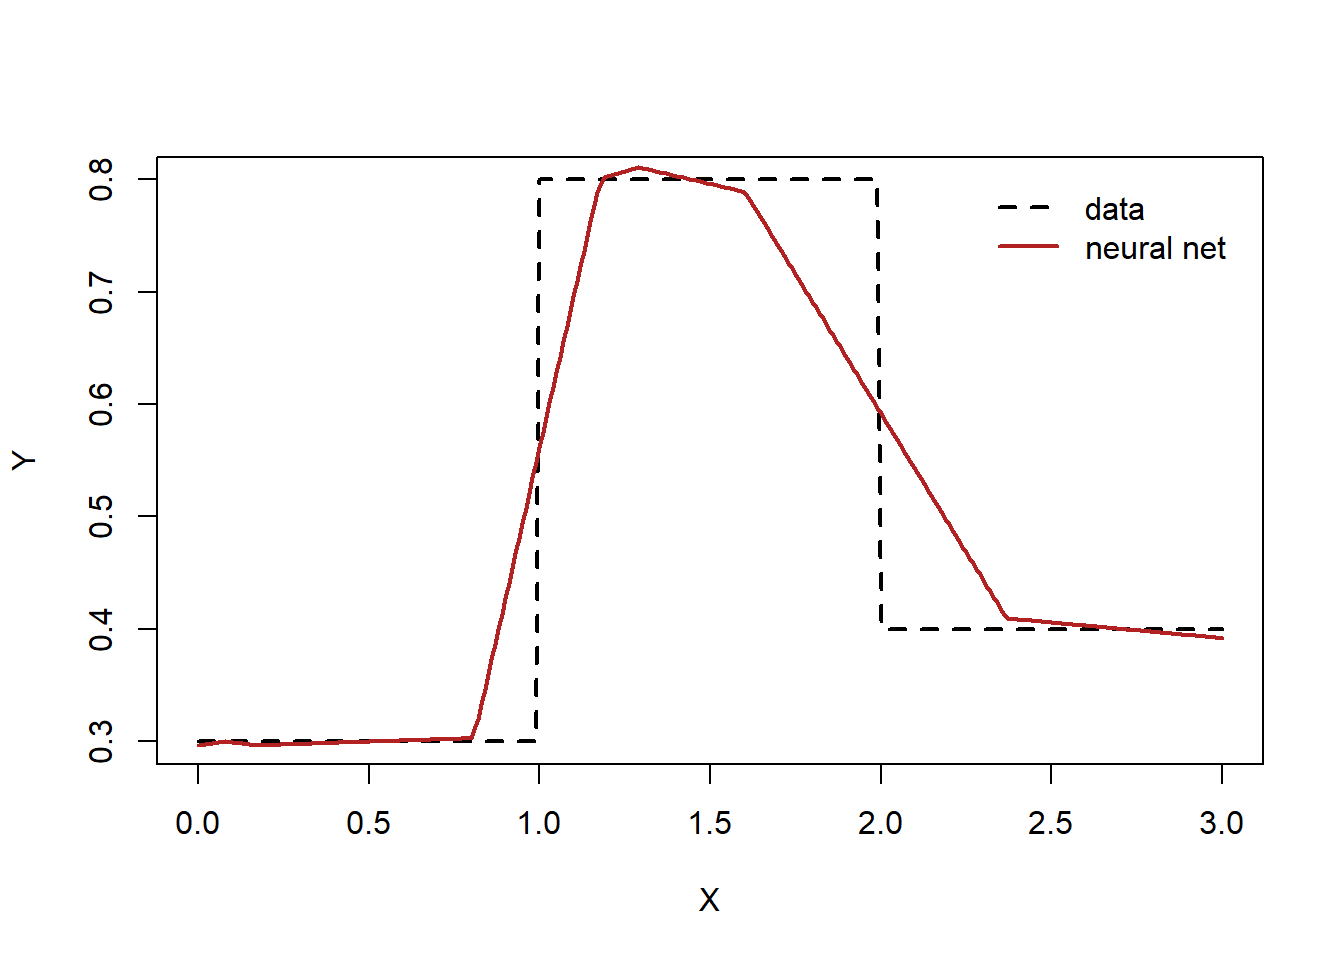
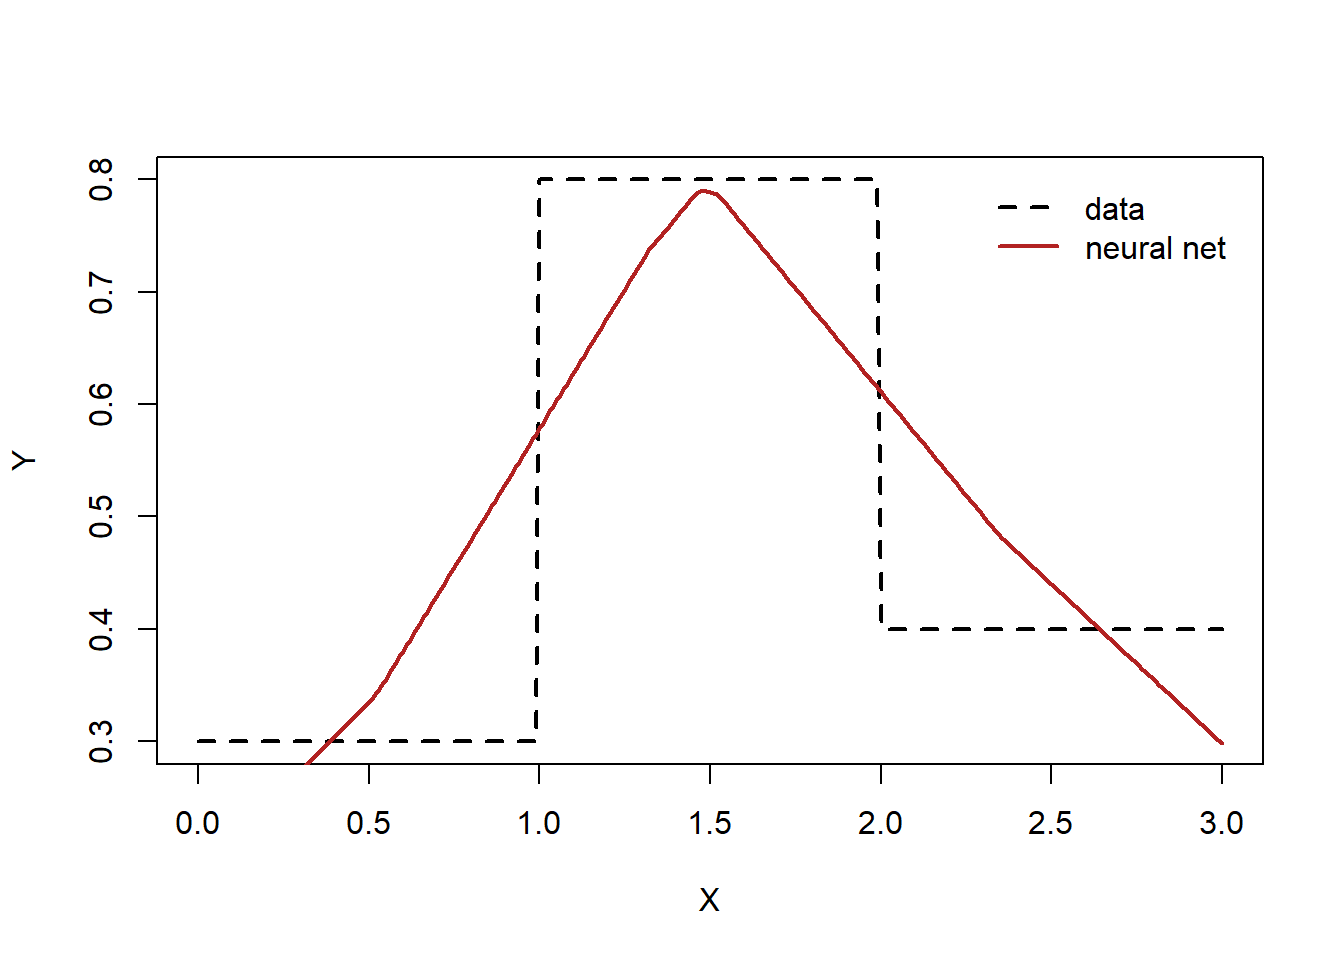
universal approximation theorem

diff --git a/docs/posts/parallel/index.html b/docs/posts/parallel/index.html
@@ -182,7 +182,7 @@ pre > code.sourceCode > span > a:first-child::before { text-decoration: underlin
 
 
 
-<p>I find that using <code>parallel</code>, <code>doParallel</code> and <code>foreach</code> provides the easiest approach. The <code>doParallel</code> <a href="https://cran.r-project.org/web/packages/doParallel/vignettes/gettingstartedParallel.pdf">vignette</a> provides a great overview.</p>
+<p>I find that <code>parallel</code>, <code>doParallel</code> and <code>foreach</code> packages provide the easiest approach for parallel computing in R. The <code>doParallel</code> <a href="https://cran.r-project.org/web/packages/doParallel/vignettes/gettingstartedParallel.pdf">vignette</a> provides a great overview. <code>library(doParallel)</code> command automatically loads required packages.</p>
 <div class="cell">
 <div class="sourceCode cell-code" id="cb1"><pre class="sourceCode r code-with-copy"><code class="sourceCode r"><span id="cb1-1"><a href="#cb1-1" aria-hidden="true" tabindex="-1"></a><span class="fu">library</span>(doParallel)</span>
 <span id="cb1-2"><a href="#cb1-2" aria-hidden="true" tabindex="-1"></a>ncores <span class="ot">&lt;-</span>  <span class="fu">detectCores</span>()</span>
@@ -191,7 +191,7 @@ pre > code.sourceCode > span > a:first-child::before { text-decoration: underlin
 <span id="cb1-5"><a href="#cb1-5" aria-hidden="true" tabindex="-1"></a>nruns <span class="ot">&lt;-</span> ncores</span>
 <span id="cb1-6"><a href="#cb1-6" aria-hidden="true" tabindex="-1"></a></span>
 <span id="cb1-7"><a href="#cb1-7" aria-hidden="true" tabindex="-1"></a>x <span class="ot">&lt;-</span> <span class="dv">2</span></span>
-<span id="cb1-8"><a href="#cb1-8" aria-hidden="true" tabindex="-1"></a>res <span class="ot">&lt;-</span> <span class="fu">foreach</span>(<span class="at">i=</span><span class="dv">1</span><span class="sc">:</span><span class="dv">4</span>, <span class="at">.inorder=</span>F, <span class="at">.combine=</span>c) <span class="sc">%dopar%</span> { <span class="fu">c</span>(i, x<span class="sc">^</span><span class="dv">2</span>) }</span>
+<span id="cb1-8"><a href="#cb1-8" aria-hidden="true" tabindex="-1"></a>res <span class="ot">&lt;-</span> <span class="fu">foreach</span>(<span class="at">i=</span><span class="dv">1</span><span class="sc">:</span><span class="dv">4</span>, <span class="at">.combine=</span>c) <span class="sc">%dopar%</span> { <span class="fu">c</span>(i, x<span class="sc">^</span><span class="dv">2</span>) }</span>
 <span id="cb1-9"><a href="#cb1-9" aria-hidden="true" tabindex="-1"></a></span>
 <span id="cb1-10"><a href="#cb1-10" aria-hidden="true" tabindex="-1"></a><span class="fu">stopCluster</span>(cl)</span>
 <span id="cb1-11"><a href="#cb1-11" aria-hidden="true" tabindex="-1"></a>res</span></code><button title="Copy to Clipboard" class="code-copy-button"><i class="bi"></i></button></pre></div>
@@ -199,39 +199,39 @@ pre > code.sourceCode > span > a:first-child::before { text-decoration: underlin
 <pre><code>[1] 1 4 2 4 3 4 4 4</code></pre>
 </div>
 </div>
-<p>We can export packages</p>
+<p>We can export packages.</p>
 <div class="cell">
 <div class="sourceCode cell-code" id="cb3"><pre class="sourceCode r code-with-copy"><code class="sourceCode r"><span id="cb3-1"><a href="#cb3-1" aria-hidden="true" tabindex="-1"></a>cl <span class="ot">&lt;-</span> <span class="fu">makeCluster</span>(<span class="fu">getOption</span>(<span class="st">"cl.cores"</span>, ncores<span class="sc">/</span><span class="dv">2</span>))</span>
 <span id="cb3-2"><a href="#cb3-2" aria-hidden="true" tabindex="-1"></a><span class="fu">registerDoParallel</span>(cl)</span>
 <span id="cb3-3"><a href="#cb3-3" aria-hidden="true" tabindex="-1"></a></span>
 <span id="cb3-4"><a href="#cb3-4" aria-hidden="true" tabindex="-1"></a>res <span class="ot">&lt;-</span> </span>
-<span id="cb3-5"><a href="#cb3-5" aria-hidden="true" tabindex="-1"></a>  <span class="fu">foreach</span>(<span class="at">i=</span><span class="dv">1</span><span class="sc">:</span><span class="dv">5</span>, <span class="at">.packages=</span><span class="fu">c</span>(<span class="st">"data.table"</span>), <span class="at">.inorder=</span>F, <span class="at">.combine=</span><span class="st">'cbind'</span>) <span class="sc">%dopar%</span> {</span>
+<span id="cb3-5"><a href="#cb3-5" aria-hidden="true" tabindex="-1"></a>  <span class="fu">foreach</span>(<span class="at">i=</span><span class="dv">1</span><span class="sc">:</span><span class="dv">5</span>, <span class="at">.packages=</span><span class="fu">c</span>(<span class="st">"data.table"</span>), <span class="at">.combine=</span>cbind) <span class="sc">%dopar%</span> {</span>
 <span id="cb3-6"><a href="#cb3-6" aria-hidden="true" tabindex="-1"></a>    <span class="fu">frollmean</span>(<span class="fu">rnorm</span>(<span class="dv">10</span>), <span class="dv">7</span>)</span>
 <span id="cb3-7"><a href="#cb3-7" aria-hidden="true" tabindex="-1"></a>  }</span>
 <span id="cb3-8"><a href="#cb3-8" aria-hidden="true" tabindex="-1"></a></span>
 <span id="cb3-9"><a href="#cb3-9" aria-hidden="true" tabindex="-1"></a><span class="fu">stopCluster</span>(cl)</span>
 <span id="cb3-10"><a href="#cb3-10" aria-hidden="true" tabindex="-1"></a>res</span></code><button title="Copy to Clipboard" class="code-copy-button"><i class="bi"></i></button></pre></div>
 <div class="cell-output cell-output-stdout">
-<pre><code>        result.1    result.2    result.3    result.4    result.5
- [1,]         NA          NA          NA          NA          NA
- [2,]         NA          NA          NA          NA          NA
- [3,]         NA          NA          NA          NA          NA
- [4,]         NA          NA          NA          NA          NA
- [5,]         NA          NA          NA          NA          NA
- [6,]         NA          NA          NA          NA          NA
- [7,] -0.3526271 -0.16103108  0.35833688  0.11674132 -0.36917712
- [8,]  0.4633662 -0.37779508 -0.04679766  0.18956330 -0.27035085
- [9,]  0.3389059 -0.07698994 -0.26160093 -0.05230764 -0.03755304
-[10,]  0.3852647  0.13218354 -0.14479009 -0.11444864  0.28247643</code></pre>
+<pre><code>        result.1     result.2  result.3   result.4    result.5
+ [1,]         NA           NA        NA         NA          NA
+ [2,]         NA           NA        NA         NA          NA
+ [3,]         NA           NA        NA         NA          NA
+ [4,]         NA           NA        NA         NA          NA
+ [5,]         NA           NA        NA         NA          NA
+ [6,]         NA           NA        NA         NA          NA
+ [7,] 0.01789169  0.064330938 0.4220557 -0.3799790 -0.00590606
+ [8,] 0.28619933  0.167325961 0.4594623 -0.4416196 -0.34045218
+ [9,] 0.45915538 -0.159068812 0.5219243 -0.4827696 -0.05653235
+[10,] 0.26106915 -0.008650928 0.6428977 -0.7384165  0.15251370</code></pre>
 </div>
 </div>
-<p>We may want to set the same seed for each worker</p>
+<p>We may want to set the same seed for each worker.</p>
 <div class="cell">
 <div class="sourceCode cell-code" id="cb5"><pre class="sourceCode r code-with-copy"><code class="sourceCode r"><span id="cb5-1"><a href="#cb5-1" aria-hidden="true" tabindex="-1"></a>cl <span class="ot">&lt;-</span> <span class="fu">makeCluster</span>(<span class="fu">getOption</span>(<span class="st">"cl.cores"</span>, ncores<span class="sc">/</span><span class="dv">2</span>))</span>
 <span id="cb5-2"><a href="#cb5-2" aria-hidden="true" tabindex="-1"></a><span class="fu">registerDoParallel</span>(cl)</span>
 <span id="cb5-3"><a href="#cb5-3" aria-hidden="true" tabindex="-1"></a></span>
 <span id="cb5-4"><a href="#cb5-4" aria-hidden="true" tabindex="-1"></a>res <span class="ot">&lt;-</span> </span>
-<span id="cb5-5"><a href="#cb5-5" aria-hidden="true" tabindex="-1"></a>  <span class="fu">foreach</span>(<span class="at">i=</span><span class="dv">1</span><span class="sc">:</span><span class="dv">5</span>, <span class="at">.packages=</span><span class="fu">c</span>(<span class="st">"data.table"</span>), <span class="at">.inorder=</span>F, <span class="at">.combine=</span><span class="st">'cbind'</span>) <span class="sc">%dopar%</span> {</span>
+<span id="cb5-5"><a href="#cb5-5" aria-hidden="true" tabindex="-1"></a>  <span class="fu">foreach</span>(<span class="at">i=</span><span class="dv">1</span><span class="sc">:</span><span class="dv">5</span>, <span class="at">.packages=</span><span class="fu">c</span>(<span class="st">"data.table"</span>), <span class="at">.combine=</span>cbind) <span class="sc">%dopar%</span> {</span>
 <span id="cb5-6"><a href="#cb5-6" aria-hidden="true" tabindex="-1"></a>    <span class="fu">set.seed</span>(<span class="dv">12</span>)</span>
 <span id="cb5-7"><a href="#cb5-7" aria-hidden="true" tabindex="-1"></a>    <span class="fu">frollmean</span>(<span class="fu">rnorm</span>(<span class="dv">10</span>), <span class="dv">7</span>)</span>
 <span id="cb5-8"><a href="#cb5-8" aria-hidden="true" tabindex="-1"></a>}</span>
@@ -251,7 +251,7 @@ pre > code.sourceCode > span > a:first-child::before { text-decoration: underlin
 [10,] -0.5445709 -0.5445709 -0.5445709 -0.5445709 -0.5445709</code></pre>
 </div>
 </div>
-<p><code>foreach</code> sessions are not reproducible</p>
+<p>Different <code>foreach</code> sessions with the same random seed are not reproducible.</p>
 <div class="cell">
 <div class="sourceCode cell-code" id="cb7"><pre class="sourceCode r code-with-copy"><code class="sourceCode r"><span id="cb7-1"><a href="#cb7-1" aria-hidden="true" tabindex="-1"></a>cl <span class="ot">&lt;-</span> <span class="fu">makeCluster</span>(<span class="fu">getOption</span>(<span class="st">"cl.cores"</span>, ncores<span class="sc">/</span><span class="dv">2</span>))</span>
 <span id="cb7-2"><a href="#cb7-2" aria-hidden="true" tabindex="-1"></a><span class="fu">registerDoParallel</span>(cl)</span>
@@ -289,7 +289,7 @@ pre > code.sourceCode > span > a:first-child::before { text-decoration: underlin
 </div>
 <div class="sourceCode cell-code" id="cb12"><pre class="sourceCode r code-with-copy"><code class="sourceCode r"><span id="cb12-1"><a href="#cb12-1" aria-hidden="true" tabindex="-1"></a><span class="fu">stopCluster</span>(cl)</span></code><button title="Copy to Clipboard" class="code-copy-button"><i class="bi"></i></button></pre></div>
 </div>
-<p>We may want to examine the status of parallel workers.</p>
+<p>We may want to examine parallel workers.</p>
 <div class="cell">
 <div class="sourceCode cell-code" id="cb13"><pre class="sourceCode r code-with-copy"><code class="sourceCode r"><span id="cb13-1"><a href="#cb13-1" aria-hidden="true" tabindex="-1"></a>cl <span class="ot">&lt;-</span> <span class="fu">makeCluster</span>(<span class="fu">getOption</span>(<span class="st">"cl.cores"</span>, ncores<span class="sc">/</span><span class="dv">2</span>))</span>
 <span id="cb13-2"><a href="#cb13-2" aria-hidden="true" tabindex="-1"></a><span class="fu">registerDoParallel</span>(cl)</span>

diff --git a/docs/posts/learning_ChatGPT_2/index.html b/docs/posts/learning_ChatGPT_2/index.html
@@ -9,7 +9,7 @@
 <meta name="author" content="Jong-Hoon Kim">
 <meta name="dcterms.date" content="2024-05-28">
 
-<title>Disease modeling for public health - Learning ChatGPT 2: Approximating a step function using a neural net</title>
+<title>Disease modeling for public health - Learning ChatGPT 2: Approximating a tower function using a neural net</title>
 <style>
 code{white-space: pre-wrap;}
 span.smallcaps{font-variant: small-caps;}
@@ -142,7 +142,7 @@ pre > code.sourceCode > span > a:first-child::before { text-decoration: underlin
 <header id="title-block-header" class="quarto-title-block default page-columns page-full">
   <div class="quarto-title-banner page-columns page-full">
     <div class="quarto-title column-body">
-      <h1 class="title">Learning ChatGPT 2: Approximating a step function using a neural net</h1>
+      <h1 class="title">Learning ChatGPT 2: Approximating a tower function using a neural net</h1>
                                 <div class="quarto-categories">
                 <div class="quarto-category">Neural network</div>
                 <div class="quarto-category">Adam</div>
@@ -182,7 +182,7 @@ pre > code.sourceCode > span > a:first-child::before { text-decoration: underlin
 
 
 
-<p>The <a href="https://writings.stephenwolfram.com/2023/02/what-is-chatgpt-doing-and-why-does-it-work/">blog post by Stephen Wolfram</a> discusses a neural network for approximating some sort of a step function. This post is my attempt to reproduce it.</p>
+<p>The <a href="https://writings.stephenwolfram.com/2023/02/what-is-chatgpt-doing-and-why-does-it-work/">blog post by Stephen Wolfram</a> discusses a neural network for approximating some sort of a step function. This post is my attempt to reproduce it. A <a href="https://www.youtube.com/watch?v=Ijqkc7OLenI">YouTube video</a> and a <a href="http://neuralnetworksanddeeplearning.com/chap4.html">book chapter</a> by Michael Nielsen beautifully explain how a neural network can approximate a tower function while explaining the <a href="https://en.wikipedia.org/wiki/Universal_approximation_theorem">Universal Approximation Theorem</a>.</p>
 <section id="data" class="level3">
 <h3 class="anchored" data-anchor-id="data">Data</h3>
 <div class="cell">
@@ -234,16 +234,16 @@ pre > code.sourceCode > span > a:first-child::before { text-decoration: underlin
 <span id="cb4-11"><a href="#cb4-11" aria-hidden="true" tabindex="-1"></a>  opt<span class="sc">$</span><span class="fu">step</span>()  <span class="co"># update weights</span></span>
 <span id="cb4-12"><a href="#cb4-12" aria-hidden="true" tabindex="-1"></a>}</span></code><button title="Copy to Clipboard" class="code-copy-button"><i class="bi"></i></button></pre></div>
 <div class="cell-output cell-output-stdout">
-<pre><code>Epoch:  100 , Loss:  0.05357342 
-Epoch:  200 , Loss:  0.04297379 
-Epoch:  300 , Loss:  0.03023487 
-Epoch:  400 , Loss:  0.02055639 
-Epoch:  500 , Loss:  0.01431756 
-Epoch:  600 , Loss:  0.01079961 
-Epoch:  700 , Loss:  0.008883039 
-Epoch:  800 , Loss:  0.007704242 
-Epoch:  900 , Loss:  0.006832627 
-Epoch:  1000 , Loss:  0.006176351 </code></pre>
+<pre><code>Epoch:  100 , Loss:  0.08749005 
+Epoch:  200 , Loss:  0.04512803 
+Epoch:  300 , Loss:  0.03153745 
+Epoch:  400 , Loss:  0.0227194 
+Epoch:  500 , Loss:  0.0177248 
+Epoch:  600 , Loss:  0.01544381 
+Epoch:  700 , Loss:  0.01454272 
+Epoch:  800 , Loss:  0.01405807 
+Epoch:  900 , Loss:  0.01362684 
+Epoch:  1000 , Loss:  0.01329494 </code></pre>
 </div>
 </div>
 <p>Compare the data and the model predictions</p>
@@ -251,7 +251,7 @@ Epoch:  1000 , Loss:  0.006176351 </code></pre>
 <div class="sourceCode cell-code" id="cb6"><pre class="sourceCode r code-with-copy"><code class="sourceCode r"><span id="cb6-1"><a href="#cb6-1" aria-hidden="true" tabindex="-1"></a>ypred <span class="ot">&lt;-</span> <span class="fu">net</span>(x)</span>
 <span id="cb6-2"><a href="#cb6-2" aria-hidden="true" tabindex="-1"></a><span class="fu">sprintf</span>(<span class="st">"L2 loss: %.4f"</span>, <span class="fu">sum</span>((ypred<span class="sc">-</span>y)<span class="sc">^</span><span class="dv">2</span>))</span></code><button title="Copy to Clipboard" class="code-copy-button"><i class="bi"></i></button></pre></div>
 <div class="cell-output cell-output-stdout">
-<pre><code>[1] "L2 loss: 1.8573"</code></pre>
+<pre><code>[1] "L2 loss: 4.0009"</code></pre>
 </div>
 <div class="sourceCode cell-code" id="cb8"><pre class="sourceCode r code-with-copy"><code class="sourceCode r"><span id="cb8-1"><a href="#cb8-1" aria-hidden="true" tabindex="-1"></a><span class="fu">plot</span>(x, y, <span class="at">type=</span><span class="st">"l"</span>, <span class="at">xlab=</span><span class="st">"X"</span>, <span class="at">ylab=</span><span class="st">"Y"</span>, <span class="at">lty=</span><span class="st">"dashed"</span>, <span class="at">lwd=</span><span class="dv">2</span>)</span>
 <span id="cb8-2"><a href="#cb8-2" aria-hidden="true" tabindex="-1"></a><span class="fu">lines</span>(x, ypred, <span class="at">lwd=</span><span class="dv">2</span>, <span class="at">col=</span><span class="st">"firebrick"</span>)</span>
@@ -303,16 +303,16 @@ Epoch:  1000 , Loss:  0.006176351 </code></pre>
 <span id="cb11-11"><a href="#cb11-11" aria-hidden="true" tabindex="-1"></a>  opt<span class="sc">$</span><span class="fu">step</span>()  <span class="co"># update weights</span></span>
 <span id="cb11-12"><a href="#cb11-12" aria-hidden="true" tabindex="-1"></a>}</span></code><button title="Copy to Clipboard" class="code-copy-button"><i class="bi"></i></button></pre></div>
 <div class="cell-output cell-output-stdout">
-<pre><code>Epoch:  100 , Loss:  0.01935568 
-Epoch:  200 , Loss:  0.006153167 
-Epoch:  300 , Loss:  0.003681945 
-Epoch:  400 , Loss:  0.002698184 
-Epoch:  500 , Loss:  0.002069614 
-Epoch:  600 , Loss:  0.001628736 
-Epoch:  700 , Loss:  0.001323509 
-Epoch:  800 , Loss:  0.001109047 
-Epoch:  900 , Loss:  0.0009633562 
-Epoch:  1000 , Loss:  0.0008408494 </code></pre>
+<pre><code>Epoch:  100 , Loss:  0.01606761 
+Epoch:  200 , Loss:  0.005057474 
+Epoch:  300 , Loss:  0.003024375 
+Epoch:  400 , Loss:  0.002102263 
+Epoch:  500 , Loss:  0.00159192 
+Epoch:  600 , Loss:  0.001272134 
+Epoch:  700 , Loss:  0.001058556 
+Epoch:  800 , Loss:  0.000919128 
+Epoch:  900 , Loss:  0.0007862431 
+Epoch:  1000 , Loss:  0.0007142351 </code></pre>
 </div>
 </div>
 <p>Compare the data and the model predictions</p>
@@ -320,7 +320,7 @@ Epoch:  1000 , Loss:  0.0008408494 </code></pre>
 <div class="sourceCode cell-code" id="cb13"><pre class="sourceCode r code-with-copy"><code class="sourceCode r"><span id="cb13-1"><a href="#cb13-1" aria-hidden="true" tabindex="-1"></a>ypred <span class="ot">&lt;-</span> <span class="fu">net</span>(x)</span>
 <span id="cb13-2"><a href="#cb13-2" aria-hidden="true" tabindex="-1"></a><span class="fu">sprintf</span>(<span class="st">"L2 loss: %.4f"</span>, <span class="fu">sum</span>((ypred<span class="sc">-</span>y)<span class="sc">^</span><span class="dv">2</span>))</span></code><button title="Copy to Clipboard" class="code-copy-button"><i class="bi"></i></button></pre></div>
 <div class="cell-output cell-output-stdout">
-<pre><code>[1] "L2 loss: 0.2529"</code></pre>
+<pre><code>[1] "L2 loss: 0.2133"</code></pre>
 </div>
 <div class="sourceCode cell-code" id="cb15"><pre class="sourceCode r code-with-copy"><code class="sourceCode r"><span id="cb15-1"><a href="#cb15-1" aria-hidden="true" tabindex="-1"></a><span class="co"># png("stepfunc_nn.png")</span></span>
 <span id="cb15-2"><a href="#cb15-2" aria-hidden="true" tabindex="-1"></a><span class="fu">plot</span>(x, y, <span class="at">type=</span><span class="st">"l"</span>, <span class="at">xlab=</span><span class="st">"X"</span>, <span class="at">ylab=</span><span class="st">"Y"</span>, <span class="at">lty=</span><span class="st">"dashed"</span>, <span class="at">lwd=</span><span class="dv">2</span>)</span>

diff --git a/docs/index.html b/docs/index.html
@@ -277,14 +277,14 @@ Jong-Hoon Kim
 </a>
 </div>
 </div>
-<div class="quarto-post image-right" data-index="3" data-categories="Neural network,Adam,matrix" data-listing-date-sort="1716822000000" data-listing-file-modified-sort="1718237868860" data-listing-date-modified-sort="NaN" data-listing-reading-time-sort="3">
+<div class="quarto-post image-right" data-index="3" data-categories="Neural network,Adam,matrix" data-listing-date-sort="1716822000000" data-listing-file-modified-sort="1718491489253" data-listing-date-modified-sort="NaN" data-listing-reading-time-sort="3">
 <div class="thumbnail">
 <p><a href="./posts/learning_ChatGPT_2/index.html"> <img src="./posts/learning_ChatGPT_2/stepfunc_nn.png" class="thumbnail-image"> </a></p>
 </div>
 <div class="body">
 <a href="./posts/learning_ChatGPT_2/index.html">
 <h3 class="no-anchor listing-title">
-Learning ChatGPT 2: Approximating a step function using a neural net
+Learning ChatGPT 2: Approximating a tower function using a neural net
 </h3>
 <div class="listing-subtitle">
 
@@ -303,7 +303,7 @@ matrix
 </div>
 <a href="./posts/learning_ChatGPT_2/index.html">
 <div class="listing-description">
-The blog post by Stephen Wolfram discusses a neural network for approximating some sort of a step function. This post is my attempt to reproduce it.
+The blog post by Stephen Wolfram discusses a neural network for approximating some sort of a step function. This post is my attempt to reproduce it. A YouTube video and a book…
 </div>
 </a>
 </div>
